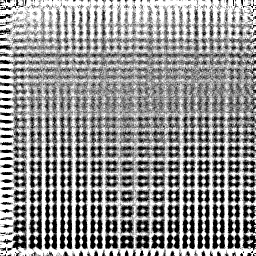
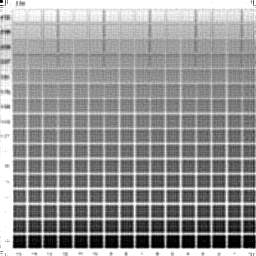
test GDS

diff --git a/src/deblur_accel/PY_deblur_pipeline.py b/src/deblur_accel/PY_deblur_pipeline.py
@@ -448,7 +448,7 @@ def main() -> int:
     p.add_argument("--pre-ifft-shifts", type=str, default="12")
     p.add_argument("--fft-to-ifft-maps", type=str, default="0")
     p.add_argument("--improve-tolerance", type=float, default=0.10, help="Count as improved if rmse_deblur <= rmse_blur*(1+tolerance)")
-    p.add_argument("--selection-metric", type=str, choices=["sharpness", "rmse"], default="sharpness", help="How to pick best candidate from PSF/K sweeps")
+    p.add_argument("--selection-metric", type=str, choices=["sharpness", "rmse"], default="rmse", help="How to pick best candidate from PSF/K sweeps")
     args = p.parse_args()
 
     if not is_pow2(args.lanes):

diff --git a/src/deblur_accel/architecture.MD b/src/deblur_accel/architecture.MD
@@ -44,7 +44,7 @@ python PY_deblur_pipeline.py \
   --mult-saturate 1 \
   --pre-ifft-shifts 12 \
   --fft-to-ifft-maps 0 \
-  --selection-metric sharpness \
+  --selection-metric rmse \
   --improve-tolerance 0.10
 ```
 
